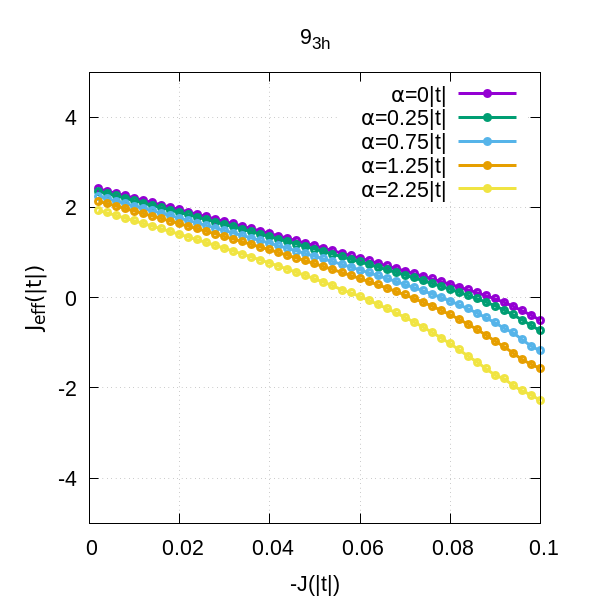
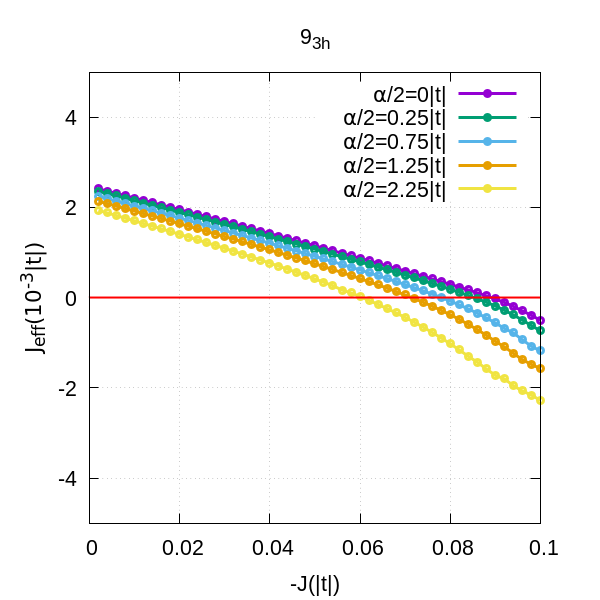
Changes from papeeria

Changed region(s): [[0.15, 0.48, 0.9, 0.51], [0.57, 0.15, 0.69, 0.33], [0.03, 0.42, 0.09, 0.6]]

diff --git a/rapport.tex b/rapport.tex
@@ -21,7 +21,7 @@
 \fancyhead{}
 \fancyhead[RE,LO]{\rightmark}
 %\fancyhead[LE,RO]{\thepage}
-
+\usepackage{bbold}
 \fancyfoot{}
 \fancyfoot[CE,CO]{\thepage}
 
@@ -135,18 +135,30 @@
 		\end{center}
 	\end{titlepage}
 	%\maketitle
-	%\thispagestyle{empty}
-	\setcounter{page}{1}
+	\thispagestyle{empty}
+	%\setcounter{page}{1}
 	\tableofcontents
+		\thispagestyle{empty}
 	\chapter*{Introduction}
+	\setcounter{page}{1}
 	\addcontentsline{toc}{chapter}{Introduction}
 	
-	Introduce the following topics
-	\begin{itemize}
-		\item Colossal magnetic resistance
-		\item Anomalous behavior of magnetic susceptibility in linear chain of Nickelates
-	\end{itemize}
-	
+	Colossal magnetoresistance is the prperty of some materials to change drastically their electric conductivity when applied a magnetic field, this change could be by several orders of magnitude. This phenomenon can be observed mainly in manganites and nickelates under dopping, as shown in figure 1. The double exchange hamiltonian is usually used in order to model 1D chains of nickelates and the main objective of this work is to understand the microscopic origin of colossal magnetoresistance and the properties of the double exchange hamiltonian and its parameters.
+	 
+	\begin{center}
+\begin{figure}[h!]
+\hspace{1cm}
+	\begin{minipage}{0.4\textwidth}
+		\includegraphics[scale=0.48]{i1.png}
+	\end{minipage}
+	\hspace{2.5cm}
+		\begin{minipage}{0.4\textwidth}
+			\includegraphics[scale=0.25]{i2.png}
+		\end{minipage}
+		%\includegraphics[scale=0.4]{../Graph/i2}		
+\end{figure}
+{\bf Figure 1:} Electrical resistivity measurements on: left: dopped Eu$_5$In$_2$Sb$_6$ single crystals. $\rho(T)$ at various magnetic fields applied \cite{1JD}. Right: $\rho$ vs magnetic field at various temperatures for (Sm$_{1-y}$Gd$_y)_{0.55}$Sr$_{0.45}$MnO$_3$, y=0.5 \cite{2JD}
+\end{center}
 	\section*{Experimental studies}
 	\addcontentsline{toc}{section}{Experimental studies}
 	
@@ -178,28 +190,55 @@
 	Therefore, the present study serves to augment the available literature
 	for parameter range extracted using \textit{ab initio} calculations.
 	
-	\chapter{Double Exchange Hamiltonian}
-	
+	\chapter{Methodology}
+	\section{Double Exchange Hamiltonian}
 	The double exchange model is used to describe mixed lvalent transition
 	metal based molecules. The phenomenology of ferromagnetic and anti-ferromagnetic
 	behavior in such molecules is captured by the various parameters of the
-	double exchange model Hamiltonian (Eq:~\ref{eq:demodel}).
+	double exchange model Hamiltonian (Eq:~\ref{eq:demodel1}).
 	
+	\begin{equation}
+		%\begin{split}
+			\hat{H}  = \sum_i 2K \hat{S}_{a_i}\cdot\hat{S}_{b_i} 
+			+ \sum_{ij} 2J_a \hat{S}_{a_i}\cdot\hat{S}_{a_j} 
+			+ \sum_{ij} t\left( \hat{c}^{\dagger}_{a_i}\cdot\hat{c}_{a_j} + \text{h.c.}\right )
+		%&	+ \sum_{i,i+1} V_{NN}\left ( \delta_{n_i,0}\ \delta_{n_{i+1},0} \right ) 
+		%	+ \sum_{i,i+2} V_{NNN}\left ( \delta_{n_i,0}\ \delta_{n_{i+2},0} \right )
+		%\end{split}
+		\label{eq:demodel1}
+	\end{equation}
+	
+	In the present work it has been incorporated the hole repulsion as proposed by C. J. Calzado and J. P. Malrieu \cite{calzado_proposal_2001}, this repulsion is considered beteenw two consecutive holes (Eq. \ref{eq:demodel2}).
 	\begin{equation}
 		\begin{split}
 			\hat{H} & = \sum_i 2K \hat{S}_{a_i}\cdot\hat{S}_{b_i} 
 			+ \sum_{ij} 2J_a \hat{S}_{a_i}\cdot\hat{S}_{a_j} 
 			+ \sum_{ij} t\left( \hat{c}^{\dagger}_{a_i}\cdot\hat{c}_{a_j} + \text{h.c.}\right ) \\
 		&	+ \sum_{i,i+1} V_{NN}\left ( \delta_{n_i,0}\ \delta_{n_{i+1},0} \right ) 
-			+ \sum_{i,i+2} V_{NNN}\left ( \delta_{n_i,0}\ \delta_{n_{i+2},0} \right )
 		\end{split}
-		\label{eq:demodel}
+		\label{eq:demodel2}
+	\end{equation}
+	A second approximation to hole repulsion has been used considering repulsion between all the holes as a function of the distance (Eq. \ref{eq:demodel3}).
+	\begin{equation}
+		\begin{split}
+			\hat{H} & = \sum_i 2K \hat{S}_{a_i}\cdot\hat{S}_{b_i} 
+			+ \sum_{ij} 2J_a \hat{S}_{a_i}\cdot\hat{S}_{a_j} 
+			+ \sum_{ij} t\left( \hat{c}^{\dagger}_{a_i}\cdot\hat{c}_{a_j} + \text{h.c.}\right ) \\
+		&	+ \sum_{i,j} V_{ij}\left ( \delta_{n_i,0}\ \delta_{n_{j},0} \right )
+		\end{split}
+		\label{eq:demodel3}
 	\end{equation}
 	
-	The above Hamiltonian describes a model with two valence orbitals on each
+	
+	
+	\begin{figure}[ht]
+		\centering
+			\includegraphics[scale=0.25]{DE.png}
+		\caption{\label{fig:deham} Representation of a model system with parameters used in double exchange hamiltonian. }
+	\end{figure}
+	These Hamiltonians describe a model with two valence orbitals on each
 	atom (site) ideally of differnet symmetry (i.e. orthogonal, e.g. $a,b$). A schematic is shown in
 	Figure:~\ref{fig:deham}.
-	
 	%\begin{figure}[ht]
 	%	\centering
 	%	\begin{modiagram}[names]
@@ -228,8 +267,8 @@
 	%	\end{modiagram}
 	%	\caption{\label{fig:deham} Orbital diagram representing the mail interactions of the double exchange model with two valence orbitals on each atom.}
 	%\end{figure}&
-	
-	In Eq:~\ref{eq:demodel}, the spins of the electrons are represented by $S_a$,
+	%\newpage
+	In Eq: \ref{eq:demodel1},\ref{eq:demodel2} and \ref{eq:demodel3} the spins of the electrons are represented by $S_a$,
 	where the subscript $a$ denotes the orbital on which the electron resides.  The
 	creation and annahilation operators of electrons are represented by
 	$\hat{c}^{\dagger}$ and $\hat{C}$ respectively. The parameters in the model
@@ -250,10 +289,12 @@
 		the exchange integral $K$.
 		
 		\item $V$ - The hole repulsion term. This takes into account the repulsion between
-		holes which are on neighboring sites $V_{NN}$ or next-nearest neighboring sites $V_{NNN}$. The hole repulsion indirectly takes into account the repulsion between
-		electrons occupying nearby sites.\cite{calzado_proposal_2001}
+		holes which are on neighboring sites $V_{NN}=\alpha \slash 2$ or all the sites as a function of distance $V_{ij}=\alpha \slash 2r_{ij}$. The hole repulsion indirectly takes into account the repulsion between
+		electrons.\cite{calzado_proposal_2001}
 		
 	\end{itemize}
+	
+	It is important to remark that there is a competition between $J$ which favors the antiferromagnetic couplings and $t$ which favors the ferromagnetic couplings, this competition plays a fundamental rol in the physics of the system.
 	
 	\section{Parameter Space}
 	
@@ -274,28 +315,28 @@
 			Parameters  \\ [0.5ex]
 			\hline\hline
 			\\
-			$ 0.01\lvert t \rvert \le J \le 0.15\lvert t \rvert $    \\ [1ex]
-			$ 0.01\lvert t \rvert \le J \le 0.15\lvert t \rvert $    \\ [1ex]
-			$ 0.4 \le K \le 0.8 $                                    \\ [1ex]
-			$ V_{NN} = \frac{\alpha}{2r}\ ;\ 0.5 \le \alpha \le 0.8 $ \\ [1ex]
-			$ V_{NNN} = \alpha V_{NN} $                                \\ [1ex]
+			$ -0.2|t|\lvert t \rvert \le J \le 0|t|\lvert t \rvert $    \\ [1ex]
+			%$ 0.01\lvert t \rvert \le J \le 0.15\lvert t \rvert $    \\ [1ex]
+			$  K = 0.8 |t| $                                    \\ [1ex]
+			$ V_{NN} = \frac{\alpha}{2}\ ;\ 0.0|t| \le \frac{\alpha}{2} \le 5.0|t| $ \\ [1ex]
+			$ V_{ij} = \frac{\alpha}{2r_{ij}} ;\ 0.0|t| \le \frac{\alpha}{2} \le 5.0|t|$                                \\ [1ex]
 			\hline
 		\end{tabular}
 		\label{tab:params}
-		\caption{Table with range of parameter values.}
+		\caption{Table with range of parameter values used in our calculations.}
 	\end{table}
 	
 	Including the hole repulsion term significantly changes the low energy physics
 	of the model as shown by previous work\cite{calzado_proposal_2001}. Here we will
-	study the influence in the variation of all the above parameters.
+	study the influence in the variation of some of the above parameters.
 	
 	
-	\chapter{Methodology}
+	%\chapter{Methodology}
 	
 	The double exchange hamiltonian is studied for one dimensional chain
 	of sites containing holes with a doping ratio of 1:3 i.e. one hole for every
-	three sites. This follows our previous study which shows that for
-	the physically meaningful range of parameter values (Table:~\ref{tab:params}),
+	three sites, from now the notation $n_{lh}$ will be used to refer a chain with $n$ sites and $l$ holes. This follows the previous study by V. G. Chilkuri which shows that for
+	the physically meaningful range of parameter values,
 	a single hole aligns about three sites.\cite{crystals_chilkuri}
 	
 	\section{Exact diagonalization}
@@ -311,9 +352,27 @@
 	about $0.5 \times 10^9$ determinants.
 	
 	\section{Model space}
+	\begin{figure}[ht]
+		\centering
+			\includegraphics[scale=0.25]{boites.png}
+		\caption{\label{boites}. Representation of the boxes formed by aligned spins for 6$_{2h}$.}
+	\end{figure}
+	As discussed above, a hole aligns about three sites. That allows to model the sistem considering "boxes" of 3 sites with a hole as a new "orbital" occupied by a particle with  $s=5 \slash 2$. These boxes have a ferromagnetic coupling inside and are coupled to each other in an antiferromagnetic way, as it is represented in figure \ref{boites}. Then, the model space is conformed by all the possible determinats of the boxes. Some questions arise from this model:
+	\begin{itemize}
+	    \item Is it the model space good enough?
+	    \item For which values of $J$?
+	    \item What is the influence of repulsion?
+	    \item What model hamiltonian use in order to reproduce the low energy spectrum?
+	\end{itemize}
+	These questions will be discussed along this repport
+	
 	
 	\section{Model Hamiltonian}
-	
+	In this work is used a Heisemberg hamiltonian as a model:
+	\begin{equation}
+	\hat{H}_{model}=-2J_{eff}\sum_i (\hat{S}_i\hat{S}_{i+1}-\frac{25}{4}\mathbb{1})
+	\end{equation}
+	Using the Efective hamiltonian theory \cite{heff} to obtain a numerical hamiltonian which reproduce the double exchange wavefunction in the model espace. $J_{eff}$ can be calculated by fitting the analitical model hamiltonian to the effective hamiltonian.
 	\section{Projector}
 
 	\subsection{Spatial part}
@@ -346,6 +405,7 @@
 		\end{split}
 		\label{eq:demodel}
 	\end{equation}
+
 
 	The full projector is simply the tensor product of the above projector
 	on all the box regions given as follows.
@@ -414,17 +474,17 @@
 	\subsection{Variation with the number of sites}
 	\begin{figure}[ht]
 		\centering
-		\hspace{-1.5cm}
+		\hspace{-2cm}
 		\begin{minipage}{0.4\textwidth}
-			\includegraphics[scale=0.4]{W_vs_J_sites_2-xrep-0.png}
+			\includegraphics[scale=0.35]{W_vs_J_sites_2-xrep-0.png}
 		\end{minipage}
 		\hspace{2cm}
 		\begin{minipage}{0.4\textwidth}
-			\includegraphics[scale=0.4]{W_vs_J_sites_3-xrep-0.png}
+			\includegraphics[scale=0.35]{W_vs_J_sites_3-xrep-0.png}
 		\end{minipage}
 		\caption{\label{fig_w69} Weight (W) as a function of $J$ for 6$_{2h}$ (left) and 9$_{3h}$ (right). }
 	\end{figure}
-	Figure \ref{fig_w69} shows the weight of the wave function projected in the model space as afunction of J for 6$_{2h}$ (left) and 9$_{3h}$ (right), for each value of spin is represented the one with a bigger weight. This confirms that it is possible to have an interval of values of J in which the weight reach excellent values (even $>$ 90$\%$ in some cases). It is possible to see that weights for 9$_{3h}$ are smaller than those of 6$_{2h}$ this due to the fact that when increasing the size of the system it also increase the number of determinants out of the model space. However this decreasing in the weight is is expected to converge in the thermodinamyc limit, in fact, the sum of the weights over all the determinants is 1 as it is an orthonormal space. In all the cases the highest spin state does not depend on $J$.
+	Figure \ref{fig_w69} shows the weight of the wave function projected in the model space as afunction of J for 6$_{2h}$ (left) and 9$_{3h}$ (right), for each value of spin is represented the one with a bigger weight. This confirms that it is possible to have an interval of values of J in which the weight reach excellent values (even $>$ 90$\%$ in some cases). It is possible to see that weights for 9$_{3h}$ are smaller than those of 6$_{2h}$ this due to the fact that when increasing the size of the system it also increase the number of determinants out of the model space.
 	 
 	 In a first moment weight increases with $J$ this is because for a small value of $J$ the system is completely governed by $t$ and that will favor the ionic determinants, but after the weight falls drastically as J favors the antiferromagnetic couplings inside the boxes.
 	
@@ -434,61 +494,65 @@
 		\centering
 		\hspace{-2cm}
 		\begin{minipage}{0.4\textwidth}
-			\includegraphics[scale=0.4]{W_vs_J_sites_2-xrep-01.png}
+			\includegraphics[scale=0.35]{W_vs_J_sites_2-xrep-01.png}
 		\end{minipage}
 		\hspace{2cm}
 		\begin{minipage}{0.4\textwidth}
-			\includegraphics[scale=0.4]{W_vs_J_sites_2-xrep-225.png}
+			\includegraphics[scale=0.35]{W_vs_J_sites_2-xrep-225.png}
 		\end{minipage}
 		\caption{\label{fig_0_225} Weight (W) as a function of $J$ for xrep=0 $|t|$ (left) and xrep=2.25 $|t|$ (right). }
 	\end{figure}
 	
 	In figure \ref{fig_0_225} are shown the weight as a function of $J$ without hole repulsion (left) and a hole repulsion with $\alpha=2.25|t|$ (right). Here it is possible to see the same tendence but repulsion increases the weight in the model space as it forces the holes away from each other and this decreases the weight of the ionic determinants. 
-	
+	\subsection{Conclusions}
+	From the analysis above it is possible to conclude that the wavefunction has an excellent weight in model space for $0 \leq J < 0.2|t|$
 	\section{Influence of hole repulsion}
 	\subsection{Variation of maximal weight}
-	In order to better understand the effect of hole repulsion it is convenient to analize the maximal value of weight for each state for several values of $\alpha$ as displayed in figure \ref{fig_v1n} for two models: at left only considering repulsion between first neighbors and at right repulsion between all the holes as a function of distance. At the begining there is an increase of the weight as explained above but for bigger values of repulsion there is a slight decrease as it will force the holes to be at the borders, and the spatial projector is the solution of Hückel in wich the hole at the exterior border of each box has a weight of 25$\%$, so even if itgains in weight the decreasing of the others will cause a global but slight decrease.So with $\alpha=2.25|t|$ we have the maximal values of weight.  
+	In order to better understand the effect of hole repulsion it is convenient to analize the maximal value of weight for each state for several values of $\alpha$ as displayed in figure \ref{fig_v1n} for two models: at left only considering repulsion between first neighbors and at right repulsion between all the holes as a function of distance. At the begining there is an increase of the weight as explained above but for bigger values of repulsion there is a slight decrease as it will force the holes to be at the borders, and the spatial projector is the solution of Hückel in wich the hole at the exterior border of each box has a weight of 25$\%$, so even if itgains in weight the decreasing of the others will cause a global but slight decrease.So with $\alpha=2.25|t|$ we have the maximal values of weight. 
 	
 	\begin{figure}[h!]
 		\centering
 		\hspace{-2cm}
 		\begin{minipage}{0.4\textwidth}
-			\includegraphics[scale=0.4]{Wmax_vs_xrep0v1.png}
+			\includegraphics[scale=0.35]{Wmax_vs_xrep0v1.png}
 		\end{minipage}
 		\hspace{2cm}
 		\begin{minipage}{0.4\textwidth}
-			\includegraphics[scale=0.4]{Wmax_vs_xrep0vn.png}
+			\includegraphics[scale=0.35]{Wmax_vs_xrep0vn.png}
 		\end{minipage}
 		\caption{\label{fig_v1n} Maximal weight (W$_{max}$)as a function of repulsion calculated with two models: only considering repulsion between consecutive holes (left) and considering repulsion between all the holes as function of distance (right). }
 	\end{figure}
 	
-	\subsection{Impact on $J$ and $t$}
+	\subsection{Impact on $J_m$}
 	\begin{figure}[h!]
 		\centering
 		\hspace{-2cm}
 		\begin{minipage}{0.4\textwidth}
-			\includegraphics[scale=0.38]{J_vs_xrepv1.png}
+			\includegraphics[scale=0.35]{J_vs_xrepv1.png}
 		\end{minipage}
 		\hspace{2cm}
 		\begin{minipage}{0.4\textwidth}
-			\includegraphics[scale=0.38]{J_vs_xrepvn.png}
+			\includegraphics[scale=0.35]{J_vs_xrepvn.png}
 		\end{minipage}
 		\caption{\label{fig_jv1n} Value of $J$ for which the maximal weight is reached ($J_m$) as a function of repulsion calculated with two models: only considering repulsion between consecutive holes (left) and considering repulsion between all the holes as function of distance (right). }
 	\end{figure}
-	Repulsion decreases the kinetic energy of the system as it constrains the movement of holes, this will have a direct impact in the effect of $t$. As we pointed before there is a competition between $J$ (which favors antiferromagnetic coupling) and $t$ (which favors ferromagnetic coupling), so this negative impact of repulsion on the effect of $t$ will cause that for even smaller values of $J$ the ferromagnetic coupling becomes stronger and makes the weight falls abruptely as discussed in section 3.1.1. Therefore the maximal value of weight is reached for smaller values of $J$ as shown in figure \ref{fig_jv1n} in which it is possible to see the value of $J$ for which the maximal weight is reached for several values of $\alpha$ and also for the two models explained above.
+	Repulsion decreases the kinetic energy of the system as it constrains the movement of holes, this will have a direct impact in the effect of $t$. As we pointed before there is a competition between $J$ (which favors antiferromagnetic coupling) and $t$ (which favors ferromagnetic coupling), so this negative impact of repulsion on the effect of $t$ will cause that for even smaller values of $J$ the antiferromagnetic coupling becomes stronger and makes the weight falls abruptely as discussed in section 3.1.1. Therefore the maximal value of weight is reached for smaller values of $J$ as shown in figure \ref{fig_jv1n} in which it is possible to see the value of $J$ for which the maximal weight is reached for several values of $\alpha$ and also for the two models explained above. Non significants differences are found for both models. 
 	%\subsection{RSRG}
+	\subsection{Conclusions}
+	For reasonable values of repulsion the projections are better, the weight has a maximal value for $\alpha$ around 2.25$|t|$ with $J=0.064|t|$.
 	
 	\section{Results of $J_{eff}$}
 	\subsection{Influence of the number of sites}
+	Figure \ref{fig_arj} shows the values of $J_{eff}$ obtained by fitting the effective hamiltonian to te model hamiltonian, for 6$_{2h}$ and 9$_{3h}$ and for two different values of $\alpha$ in an interval in which the wavefunction has a good projection. There is an interval in which $J_{eff}$ becomes antiferromagnetic (below the red line). As it is observed the values for both systems are pretty close, so in this range of values $J_{eff}$ is transferable.
 	\begin{figure}[h!]
 		\centering
 		\hspace{-2cm}
 		\begin{minipage}{0.4\textwidth}
-			\includegraphics[scale=0.4]{Jeff_vs_J_sites_3-xrep-0.png}
+			\includegraphics[scale=0.35]{Jeff_vs_J_sites_3-xrep-0.png}
 		\end{minipage}
 		\hspace{2cm}
 		\begin{minipage}{0.4\textwidth}
-			\includegraphics[scale=0.4]{Jeff_vs_J_sites_3-xrep-225.png}
+			\includegraphics[scale=0.35]{Jeff_vs_J_sites_3-xrep-225.png}
 		\end{minipage}
 		\caption{\label{fig_arj} Value of $J_{eff}$ as a function of $J$ for $\alpha=0|t|$ (left) and $\alpha=2.25|t|$ (right). }
 	\end{figure}
@@ -497,28 +561,29 @@
 	
 	
 	\subsection{Influence of hole repulsion}
+	In order to understand the influence of repulsion on $J_eff$ it has been calculated for several values of $\alpha$ as represented in figure \ref{fig_arj1}. When increse the repulsion $J_{eff}$ goes faster to antiferromagnetic values. This results is ilustrated in figure \ref{fig_arxrep} in which $J_{eff}$ is represented as a function of repulsion for $J=0.062|t|$.
 	\begin{figure}[h!]
 		\centering
 		\hspace{-2cm}
 		\begin{minipage}{0.4\textwidth}
-			\includegraphics[scale=0.4]{Jeff_vs_J_ar2.png}
+			\includegraphics[scale=0.35]{Jeff_vs_J_ar2.png}
 		\end{minipage}
 		\hspace{2cm}
 		\begin{minipage}{0.4\textwidth}
-			\includegraphics[scale=0.4]{Jeff_vs_J_ar3.png}
+			\includegraphics[scale=0.35]{Jeff_vs_J_ar3.png}
 		\end{minipage}
-		\caption{\label{fig_arj} Value of $J_{eff}$ as a function of $J$ for 6$_{2h}$ (left) and 6$_{2h}$ (right). }
+		\caption{\label{fig_arj1} Value of $J_{eff}$ as a function of $J$ for 6$_{2h}$ (left) and 6$_{2h}$ (right). }
 	\end{figure}
 	
 	\begin{figure}[h!]
 		\centering
 		\hspace{-2cm}
 		\begin{minipage}{0.4\textwidth}
-			\includegraphics[scale=0.4]{Jeff_vs_xrep_ar2.png}
+			\includegraphics[scale=0.35]{Jeff_vs_xrep_ar2.png}
 		\end{minipage}
 		\hspace{2cm}
 		\begin{minipage}{0.4\textwidth}
-			\includegraphics[scale=0.4]{Jeff_vs_xrep_ar3.png}
+			\includegraphics[scale=0.35]{Jeff_vs_xrep_ar3.png}
 		\end{minipage}
 		\caption{\label{fig_arxrep} Value of $J_{eff}$ as a function of $\alpha$ for 6$_{2h}$ (left) and 6$_{2h}$ (right). in both cases $J=0.062 |t|$ }
 	\end{figure}
